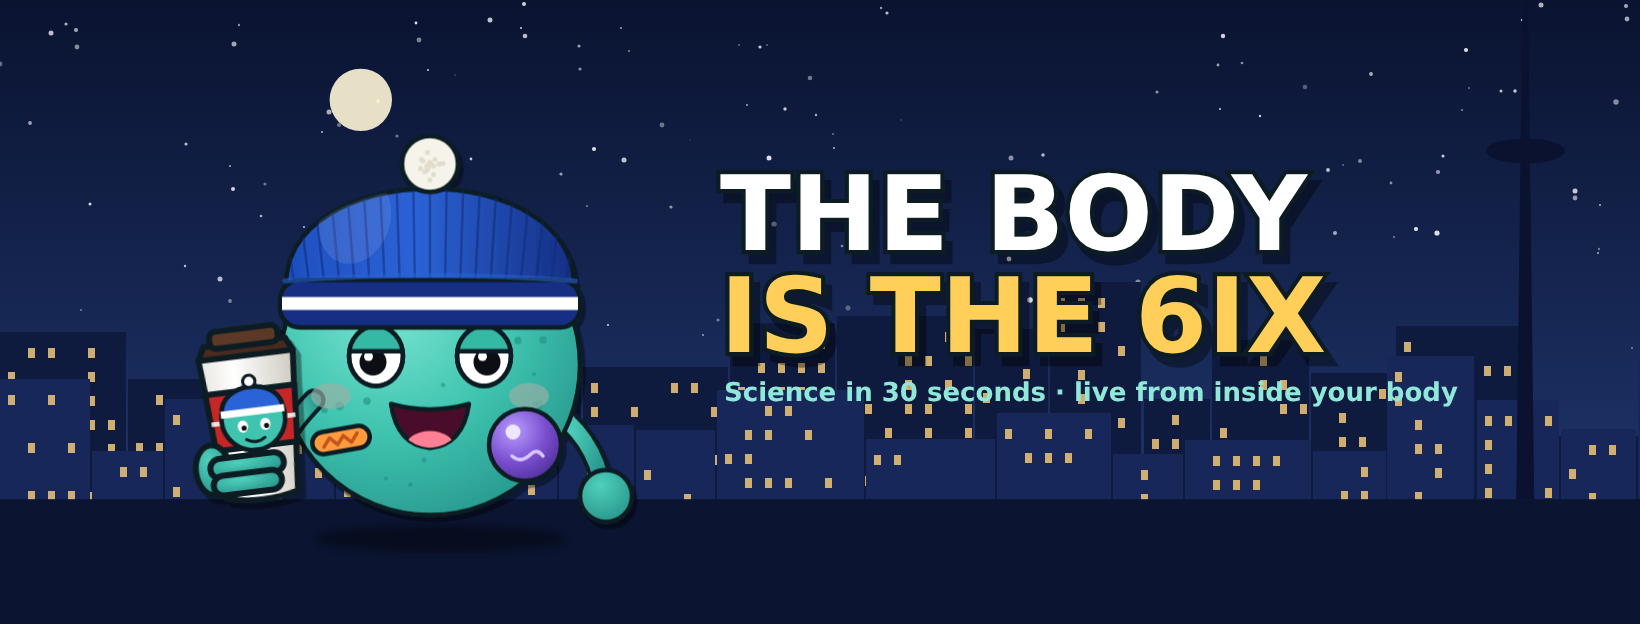
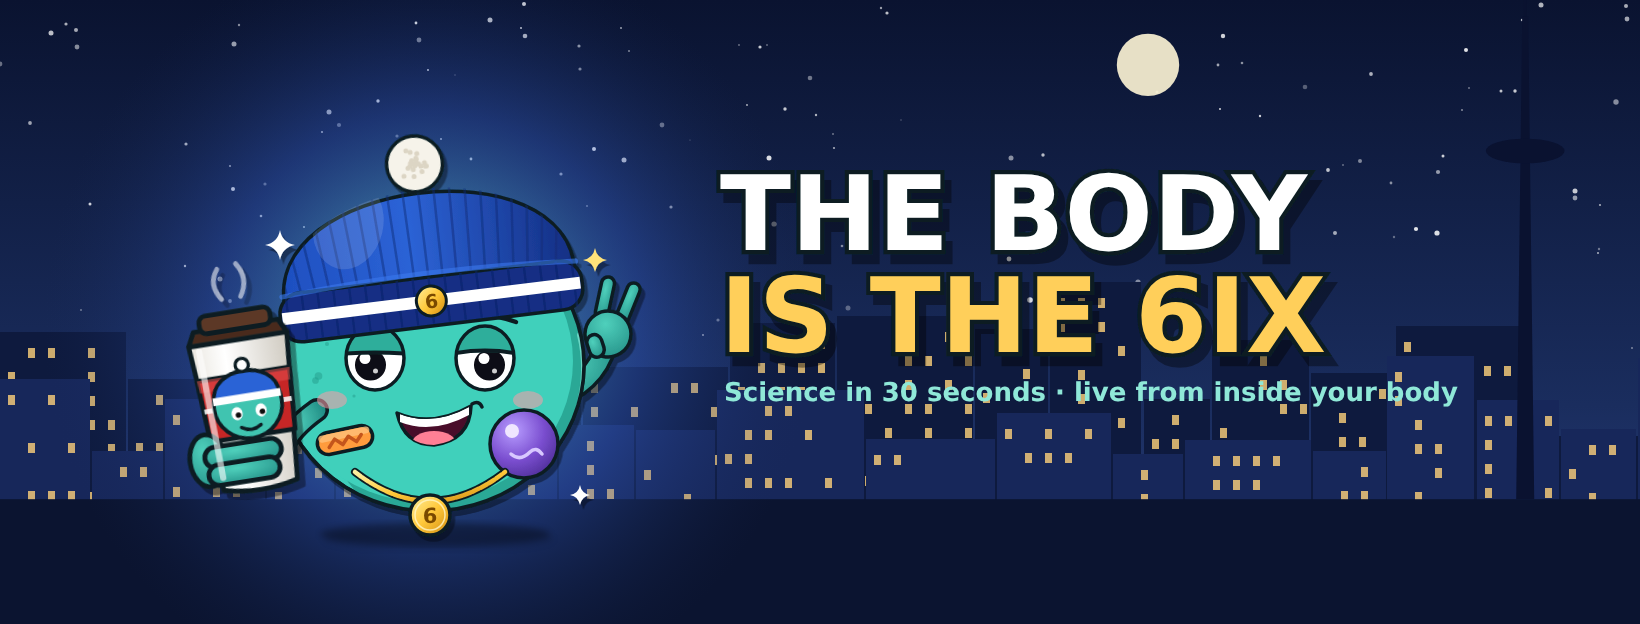
Rebrand v2.1: cooler Cyto (cel shading, smirk, gold 6 chain, peace sign, tilted toque)
Claude-Session: https://claude.ai/code/session_01YLZ2csSozvptdvtP7YVaK8

Changed region(s): [[0.0933, 0.0609, 0.4354, 0.9744], [0.6841, 0.0304, 0.7463, 0.1522]]

diff --git a/studio/branding/rebrand-v2/cyto2d.js b/studio/branding/rebrand-v2/cyto2d.js
@@ -8,66 +8,104 @@ const defs=`
  <radialGradient id="nuc" cx=".35" cy=".3" r=".8"><stop offset="0" stop-color="#b79cff"/><stop offset=".55" stop-color="#7b4fd0"/><stop offset="1" stop-color="#4b2b94"/></radialGradient>
  <linearGradient id="sky" x1="0" y1="0" x2="0" y2="1"><stop offset="0" stop-color="#0a1330"/><stop offset=".65" stop-color="#1a2d5e"/><stop offset="1" stop-color="#2b4180"/></linearGradient>
  <linearGradient id="cupw" x1="0" x2="1"><stop offset="0" stop-color="#e9e6df"/><stop offset=".35" stop-color="#ffffff"/><stop offset="1" stop-color="#cfcac0"/></linearGradient>
+ <radialGradient id="glow" cx=".5" cy=".5" r=".5"><stop offset="0" stop-color="#6ff0dc" stop-opacity=".75"/><stop offset=".55" stop-color="#3a6be0" stop-opacity=".32"/><stop offset="1" stop-color="#1a2d5e" stop-opacity="0"/></radialGradient>
+ <linearGradient id="gold" x1="0" y1="0" x2="1" y2="1"><stop offset="0" stop-color="#fff0a0"/><stop offset=".5" stop-color="#ffc83a"/><stop offset="1" stop-color="#d08a10"/></linearGradient>
+ <clipPath id="bodyclip2"><ellipse rx="308" ry="292"/></clipPath>
  <filter id="cut" x="-10%" y="-10%" width="130%" height="130%"><feDropShadow dx="7" dy="10" stdDeviation="0" flood-color="#000" flood-opacity=".38"/></filter>
  <filter id="soft"><feGaussianBlur stdDeviation="6"/></filter>
  <clipPath id="bodyclip"><circle r="300"/></clipPath>
  <clipPath id="hatclip"><path d="M-288 -150 C-300 -420 300 -420 288 -150Z"/></clipPath>
 </defs>`;
-const O='stroke="#0a1f24" stroke-width="9" stroke-linejoin="round" stroke-linecap="round"';
-function eye(x,flip){return `<g transform="translate(${x},-18)">
- <clipPath id="e${x<0?'L':'R'}"><ellipse rx="54" ry="60"/></clipPath>
- <ellipse rx="54" ry="60" fill="#fff" ${O}/>
- <circle cx="${flip*6}" cy="12" r="27" fill="#0b0b12"/><circle cx="${flip*6-9}" cy="1" r="9" fill="#fff"/>
- <g clip-path="url(#e${x<0?'L':'R'})"><rect x="-70" y="-70" width="140" height="62" fill="#34b8a4"/><rect x="-70" y="-14" width="140" height="9" fill="#0a1f24"/></g>
- <ellipse rx="54" ry="60" fill="none" ${O}/>
- <path d="M${-56} -80 Q0 ${-104+flip*-6} 56 -76" fill="none" ${O}/>
+const O='stroke="#0a1f24" stroke-width="7" stroke-linejoin="round" stroke-linecap="round"';
+
+function sparkle(x,y,r,c='#fff'){return `<path d="M${x} ${y-r} Q${x+r*.15} ${y-r*.15} ${x+r} ${y} Q${x+r*.15} ${y+r*.15} ${x} ${y+r} Q${x-r*.15} ${y+r*.15} ${x-r} ${y} Q${x-r*.15} ${y-r*.15} ${x} ${y-r}Z" fill="${c}"/>`}
+function eye(x,side){ // side -1 left, 1 right
+ const id='e'+(side<0?'L':'R');
+ return `<g transform="translate(${x},-14)">
+ <clipPath id="${id}"><ellipse rx="58" ry="64"/></clipPath>
+ <ellipse rx="58" ry="64" fill="#fff"/>
+ <g clip-path="url(#${id})">
+  <circle cx="${side*9}" cy="14" r="31" fill="#0b0b12"/><circle cx="${side*9-11}" cy="1" r="11" fill="#fff"/><circle cx="${side*9+10}" cy="26" r="5" fill="#fff" opacity=".8"/>
+  <path d="M-70 -80 L70 -80 L70 -6 Q0 -${14+side*4} -70 -6Z" fill="#2fae9b"/>
+  <path d="M-70 -8 Q0 ${-18-side*4} 70 -8" fill="none" stroke="#0a1f24" stroke-width="8"/>
+ </g>
+ <ellipse rx="58" ry="64" fill="none" ${O}/>
+ <path d="M-60 -78 Q0 ${side<0?-112:-96} 62 ${side<0?-84:-72}" fill="none" stroke="#0a1f24" stroke-width="9" stroke-linecap="round"/>
 </g>`}
-function cup(){return `<g transform="translate(-352,118) rotate(-7) scale(1.32)" filter="url(#cut)">
+function cup(){return `<g transform="translate(-362,92) rotate(-9) scale(1.38)" filter="url(#cut)">
  <path d="M-72 -105 L72 -105 L54 108 Q0 122 -54 108Z" fill="url(#cupw)" ${O}/>
- <path d="M-68 -52 L68 -52 L62 34 L-62 34Z" fill="#c62828" ${O}/>
- <rect x="-64" y="-10" width="128" height="7" fill="#fff" opacity=".85"/>
+ <path d="M-68 -54 L68 -54 L62 36 L-62 36Z" fill="#c62828" ${O}/>
+ <path d="M-68 -54 L68 -54 L66 -36 L-66 -36Z" fill="#e24a4a" opacity=".55"/>
+ <rect x="-64" y="-12" width="128" height="7" fill="#fff" opacity=".85"/>
  <path d="M-62 -125 L62 -125 L72 -105 L-72 -105Z" fill="#4a2c1f" ${O}/>
  <rect x="-52" y="-146" width="104" height="26" rx="10" fill="#5c3827" ${O}/>
- <g transform="translate(0,-9) scale(.78)"><circle r="62" fill="#3fc4b0" ${O}/>
+ <path d="M-14 -166 Q-30 -190 -14 -210 M14 -166 Q30 -190 14 -214" fill="none" stroke="#fff" stroke-width="7" stroke-linecap="round" opacity=".55"/>
+ <g transform="translate(0,-10) scale(.8)"><circle r="62" fill="#3fc4b0" ${O}/>
   <path d="M-60 -12 C-60 -78 60 -78 60 -12Z" fill="#2c63d6" ${O}/><rect x="-62" y="-20" width="124" height="14" fill="#fff"/><circle cy="-72" r="12" fill="#fff" stroke="#0a1f24" stroke-width="6"/>
   <ellipse cx="-22" cy="14" rx="10" ry="12" fill="#fff"/><ellipse cx="22" cy="14" rx="10" ry="12" fill="#fff"/><circle cx="-20" cy="17" r="5" fill="#111"/><circle cx="24" cy="17" r="5" fill="#111"/>
   <path d="M-18 40 Q0 52 18 40" fill="none" stroke="#0a1f24" stroke-width="6" stroke-linecap="round"/></g>
- <g ${O} fill="url(#skinArm)"><ellipse cx="-70" cy="62" rx="26" ry="38"/><rect x="-74" y="46" width="112" height="30" rx="15"/><rect x="-72" y="72" width="104" height="30" rx="15"/></g>
+ <g ${O} fill="url(#skinArm)"><ellipse cx="-70" cy="62" rx="26" ry="38"/><rect x="-74" y="44" width="112" height="30" rx="15"/><rect x="-72" y="70" width="104" height="30" rx="15"/></g>
+ <path d="M-58 -96 L-52 90" stroke="#fff" stroke-width="9" stroke-linecap="round" opacity=".6"/>
 </g>`}
 function cyto(){
- let spots=''; for(let i=0;i<34;i++){const a=rnd()*6.28,r=Math.sqrt(rnd())*270;const x=Math.cos(a)*r,y=Math.sin(a)*r*0.95+20;
-  if(Math.abs(x)<150&&y>-90&&y<20) continue; if(Math.abs(x)<110&&y>40&&y<170) continue; if(y<-80) continue; if(x>110&&y>90&&x<260) continue;if(x<-110&&y>95&&x>-260) continue;
-  spots+=`<circle cx="${x.toFixed(0)}" cy="${y.toFixed(0)}" r="${(3+rnd()*6).toFixed(1)}" fill="#1f8f86" opacity=".6"/>`}
- let ribs=''; for(let i=-9;i<=9;i++) ribs+=`<path d="M${i*30} -150 L${i*34} -400" stroke="#102a74" stroke-width="5" opacity=".5"/>`;
- let pom=''; for(let i=0;i<22;i++){const a=rnd()*6.28,r=rnd()*34;pom+=`<circle cx="${(Math.cos(a)*r).toFixed(0)}" cy="${(Math.sin(a)*r).toFixed(0)}" r="5" fill="#e2dccd"/>`}
+ let spots=''; for(let i=0;i<22;i++){const a=rnd()*6.28,r=Math.sqrt(rnd())*260;const x=Math.cos(a)*r,y=Math.sin(a)*r*0.95+20;
+  if(Math.abs(x)<190&&y>-100&&y<30) continue; if(Math.abs(x)<130&&y>40&&y<170) continue; if(y<-60) continue; if(x>100&&y>80) continue;if(x<-110&&y>70&&x>-270) continue; if(y>150) continue;
+  spots+=`<circle cx="${x.toFixed(0)}" cy="${y.toFixed(0)}" r="${(3+rnd()*5).toFixed(1)}" fill="#25a090" opacity=".55"/>`}
+ let ribs=''; for(let i=-10;i<=10;i++) ribs+=`<path d="M${i*28} -140 L${i*32} -400" stroke="#102a74" stroke-width="5" opacity=".45"/>`;
+ let cuffr=''; for(let i=-9;i<=9;i++) cuffr+=`<path d="M${i*32} -176 L${i*32} -82" stroke="#0e2468" stroke-width="5" opacity=".55"/>`;
+ let pom=''; for(let i=0;i<24;i++){const a=rnd()*6.28,r=rnd()*34;pom+=`<circle cx="${(Math.cos(a)*r).toFixed(0)}" cy="${(Math.sin(a)*r).toFixed(0)}" r="5" fill="#dcd5c4"/>`}
  return `<g filter="url(#cut)">
- <ellipse cx="20" cy="345" rx="250" ry="26" fill="#000" opacity=".28" filter="url(#soft)"/>
- <g><path d="M232 80 Q330 140 346 250" fill="none" stroke="#0a1f24" stroke-width="46" stroke-linecap="round"/><path d="M232 80 Q330 140 346 250" fill="none" stroke="url(#skinArm)" stroke-width="30" stroke-linecap="round"/>
- <circle cx="352" cy="262" r="52" fill="url(#skinArm)" ${O}/></g>
- <circle r="300" fill="url(#skin)" ${O}/>
- <g clip-path="url(#bodyclip)">${spots}
-  <ellipse cx="-120" cy="-150" rx="120" ry="60" fill="#fff" opacity=".13" transform="rotate(-24 -120 -150)"/></g>
- <path d="M-232 70 Q-290 130 -300 170" fill="none" stroke="#0a1f24" stroke-width="46" stroke-linecap="round"/><path d="M-232 70 Q-290 130 -300 170" fill="none" stroke="url(#skinArm)" stroke-width="30" stroke-linecap="round"/>
- ${eye(-108,-1)}${eye(108,1)}
- <ellipse cx="-198" cy="62" rx="40" ry="26" fill="#9db0a6" opacity=".65"/><ellipse cx="198" cy="62" rx="40" ry="26" fill="#9db0a6" opacity=".65"/>
- <clipPath id="mo"><path d="M-78 78 Q0 100 78 78 Q66 160 0 166 Q-66 160 -78 78Z"/></clipPath>
- <path d="M-78 78 Q0 100 78 78 Q66 160 0 166 Q-66 160 -78 78Z" fill="#4a0f2b" ${O}/>
- <g clip-path="url(#mo)"><ellipse cx="0" cy="162" rx="48" ry="30" fill="#ff7f95"/></g>
- <g transform="translate(-178,150) rotate(-10)"><rect x="-58" y="-22" width="116" height="44" rx="22" fill="#ff9b3d" ${O}/><path d="M-36 8 L-22 -8 L-8 8 L6 -8 L20 8 L34 -8" fill="none" stroke="#c4541a" stroke-width="7" stroke-linecap="round" stroke-linejoin="round"/></g>
- <g transform="translate(190,160)"><circle r="72" fill="url(#nuc)" ${O}/><circle cx="-24" cy="-26" r="15" fill="#efe6ff"/><path d="M-26 22 Q-8 38 12 18 Q24 6 36 22" fill="none" stroke="#d8c8ff" stroke-width="7" stroke-linecap="round"/></g>
- <g>
-  <path d="M-288 -150 C-300 -420 300 -420 288 -150Z" fill="url(#hat)" ${O}/>
-  <g clip-path="url(#hatclip)">${ribs}<ellipse cx="-150" cy="-290" rx="70" ry="90" fill="#fff" opacity=".1" transform="rotate(20 -150 -290)"/></g>
-  <rect x="-300" y="-170" width="600" height="95" rx="40" fill="#142f84" ${O}/>
-  <rect x="-296" y="-136" width="592" height="26" fill="#fff"/>
-  <path d="M-290 -168 Q0 -190 290 -168" fill="none" stroke="#2c63d6" stroke-width="10" opacity=".55" stroke-linecap="round"/>
-  <g transform="translate(0,-402)"><circle r="56" fill="#f6f3ea" ${O}/>${pom}</g>
+ <ellipse cx="10" cy="338" rx="230" ry="24" fill="#000" opacity=".3" filter="url(#soft)"/>
+ <!-- raised peace-sign arm (viewer right) -->
+ <path d="M236 70 Q330 40 352 -40" fill="none" stroke="#0a1f24" stroke-width="48" stroke-linecap="round"/><path d="M236 70 Q330 40 352 -40" fill="none" stroke="url(#skinArm)" stroke-width="34" stroke-linecap="round"/>
+ <g transform="translate(356,-62) rotate(12)"><rect x="-34" y="-112" width="26" height="86" rx="13" fill="url(#skinArm)" ${O}/><rect x="6" y="-112" width="26" height="86" rx="13" fill="url(#skinArm)" ${O} transform="rotate(10 19 -26)"/><circle r="46" fill="url(#skinArm)" ${O}/><rect x="-46" y="-8" width="30" height="46" rx="15" fill="url(#skinArm)" ${O} transform="rotate(-30)"/></g>
+ <!-- body -->
+ <ellipse rx="308" ry="292" fill="#3fd0bb" ${O}/>
+ <g clip-path="url(#bodyclip2)">
+  <ellipse cx="60" cy="70" rx="320" ry="300" fill="#2aa896" transform="translate(54 60)" opacity="0"/>
+  <path d="M-310 0 A310 295 0 0 0 310 0 Q300 150 150 260 Q-40 330 -200 230 Q-300 150 -310 0Z" fill="#27a593" opacity=".0"/>
+  <ellipse cx="86" cy="76" rx="300" ry="285" fill="#2aa896"/>
+  <ellipse cx="-10" cy="-8" rx="296" ry="282" fill="#3fd0bb"/>
+  <path d="M-250 -150 Q-170 -250 -40 -250" fill="none" stroke="#fff" stroke-width="26" stroke-linecap="round" opacity=".38"/>
+  <circle cx="-218" cy="-95" r="13" fill="#fff" opacity=".4"/>
+  <path d="M300 -60 Q330 60 250 200" fill="none" stroke="#9dfbe9" stroke-width="12" stroke-linecap="round" opacity=".55"/>
+  ${spots}
  </g>
+ <ellipse rx="308" ry="292" fill="none" ${O}/>
+ <!-- left arm (to cup) -->
+ <path d="M-226 90 Q-282 130 -296 170" fill="none" stroke="#0a1f24" stroke-width="48" stroke-linecap="round"/><path d="M-226 90 Q-282 130 -296 170" fill="none" stroke="url(#skinArm)" stroke-width="34" stroke-linecap="round"/>
+ ${eye(-110,-1)}${eye(110,1)}
+ <ellipse cx="-196" cy="70" rx="30" ry="18" fill="#ff9aa8" opacity=".55"/><ellipse cx="196" cy="70" rx="30" ry="18" fill="#ff9aa8" opacity=".55"/>
+ <!-- smirk -->
+ <clipPath id="mo"><path d="M-66 96 Q4 126 82 82 Q80 150 8 160 Q-52 160 -66 96Z"/></clipPath>
+ <path d="M-66 96 Q4 126 82 82 Q80 150 8 160 Q-52 160 -66 96Z" fill="#4a0f2b" ${O}/>
+ <g clip-path="url(#mo)"><ellipse cx="8" cy="160" rx="46" ry="28" fill="#ff7f95"/><path d="M-60 98 Q4 124 78 84 L78 100 Q4 140 -60 114Z" fill="#fff"/></g>
+ <path d="M84 78 Q98 70 104 84" fill="none" stroke="#0a1f24" stroke-width="7" stroke-linecap="round"/>
+ <!-- bandage -->
+ <g transform="translate(-170,150) rotate(-12)"><rect x="-56" y="-22" width="112" height="44" rx="22" fill="#ff9b3d" ${O}/><rect x="-52" y="-18" width="104" height="14" rx="7" fill="#ffc07a" opacity=".8"/><path d="M-34 8 L-20 -6 L-6 8 L8 -6 L22 8 L34 -4" fill="none" stroke="#c4541a" stroke-width="7" stroke-linecap="round" stroke-linejoin="round"/></g>
+ <!-- nucleus -->
+ <g transform="translate(188,158)"><circle r="68" fill="url(#nuc)" ${O}/><circle cx="-24" cy="-26" r="14" fill="#efe6ff"/><path d="M-26 20 Q-8 36 12 16 Q24 4 36 20" fill="none" stroke="#d8c8ff" stroke-width="7" stroke-linecap="round"/></g>
+ <!-- gold chain + 6 pendant -->
+ <path d="M-150 214 Q0 330 150 214" fill="none" stroke="#0a1f24" stroke-width="16" stroke-linecap="round"/>
+ <path d="M-150 214 Q0 330 150 214" fill="none" stroke="url(#gold)" stroke-width="9" stroke-linecap="round" stroke-dasharray="14 4"/>
+ <g transform="translate(0,300)"><circle r="40" fill="url(#gold)" ${O}/><circle r="30" fill="none" stroke="#fff6c8" stroke-width="3" opacity=".8"/><text y="15" text-anchor="middle" font-family="Arial Black, Impact, DejaVu Sans, sans-serif" font-weight="900" font-size="42" fill="#7a4a00">6</text></g>
+ <!-- toque (tilted) -->
+ <g transform="rotate(-7 0 -150)">
+  <path d="M-292 -150 C-312 -410 312 -410 292 -150Z" fill="url(#hat)" ${O}/>
+  <g clip-path="url(#hatclip)">${ribs}<ellipse cx="-150" cy="-300" rx="70" ry="90" fill="#fff" opacity=".13" transform="rotate(20 -150 -290)"/></g>
+  <rect x="-304" y="-176" width="608" height="98" rx="42" fill="#142f84" ${O}/>
+  ${cuffr}
+  <rect x="-300" y="-140" width="600" height="24" fill="#fff"/>
+  <path d="M-296 -172 Q0 -196 296 -172" fill="none" stroke="#3a78ec" stroke-width="10" opacity=".6" stroke-linecap="round"/>
+  <g transform="translate(0,-128)"><circle r="30" fill="url(#gold)" stroke="#0a1f24" stroke-width="6"/><text y="14" text-anchor="middle" font-family="Arial Black, Impact, DejaVu Sans, sans-serif" font-weight="900" font-size="38" fill="#7a4a00">6</text></g>
+  <g transform="translate(0,-404)"><circle r="56" fill="#f6f3ea" ${O}/>${pom}</g>
+ </g>
+ ${sparkle(-300,-240,30)}${sparkle(330,-210,24,'#ffe27a')}${sparkle(300,260,20)}${sparkle(-380,-60,18,'#ffe27a')}
  </g>${cup()}`}
 function skyline(w,h,base,seed){let s=seed;const r=()=>(s=(s*16807)%2147483647)/2147483647;let o='';
  o+=`<rect width="${w}" height="${h}" fill="url(#sky)"/>`;
  for(let i=0;i<130;i++) o+=`<circle cx="${(r()*w).toFixed(0)}" cy="${(r()*base*0.7).toFixed(0)}" r="${(r()*2.2+.6).toFixed(1)}" fill="#fff" opacity="${(.3+r()*.6).toFixed(2)}"/>`;
- o+=`<circle cx="${w*0.22}" cy="${base*0.2}" r="${Math.min(w,h)*0.05}" fill="#fff6d6" opacity=".9"/>`;
+ if(w>1200) o+=`<circle cx="${w*0.7}" cy="${base*0.13}" r="${Math.min(w,h)*0.05}" fill="#fff6d6" opacity=".9"/>`;
  for(let layer=0;layer<2;layer++){let x=-20;while(x<w){const bw=w*(0.04+r()*0.05),bh=h*(0.1+r()*0.25)*(layer?.7:1);
   o+=`<rect x="${x.toFixed(0)}" y="${(base-bh).toFixed(0)}" width="${bw.toFixed(0)}" height="${(h-base+bh).toFixed(0)}" fill="${layer?'#17275a':'#0e1a3e'}"/>`;
   for(let wy=base-bh+16;wy<base;wy+=24)for(let wx=x+8;wx<x+bw-8;wx+=20)if(r()>.6)o+=`<rect x="${wx.toFixed(0)}" y="${wy.toFixed(0)}" width="7" height="10" fill="#ffd27a" opacity=".8"/>`;
@@ -79,13 +117,13 @@ const pfp=`<svg xmlns="http://www.w3.org/2000/svg" width="1000" height="1000" vi
  <clipPath id="circ"><circle cx="500" cy="500" r="486"/></clipPath>
  <g clip-path="url(#circ)">${skyline(1000,1000,780,3)}${tower(840,780,540)}
  <rect y="760" width="1000" height="240" fill="#0b1430"/>
- <g transform="translate(535,520) scale(.78)">${cyto()}</g></g>
+ <circle cx="520" cy="500" r="470" fill="url(#glow)"/><g transform="translate(512,505) scale(.86)">${cyto()}</g></g>
  <circle cx="500" cy="500" r="486" fill="none" stroke="#ffcf5a" stroke-width="28"/></svg>`;
 fs.writeFileSync('pfp.svg',pfp);
 // COVER 1640x624 (FB) — character left-center, text right, safe middle
 const cover=(w,h,sc,cx,cy,tx,fs1,fs2)=>`<svg xmlns="http://www.w3.org/2000/svg" width="${w}" height="${h}" viewBox="0 0 ${w} ${h}">${defs}
  ${skyline(w,h,h*0.8,9)}${tower(w*0.93,h*0.8,h*0.9)}<rect y="${h*0.8}" width="${w}" height="${h*0.2}" fill="#0b1430"/>
- <g transform="translate(${cx},${cy}) scale(${sc})">${cyto()}</g>
+ <circle cx="${cx}" cy="${cy-40}" r="${h*0.62}" fill="url(#glow)"/><g transform="translate(${cx},${cy}) scale(${sc})">${cyto()}</g>
  <g font-family="Arial Black, Impact, DejaVu Sans, sans-serif" font-weight="900">
   <text x="${tx}" y="${h*0.4}" font-size="${fs1}" fill="#fff" stroke="#0a1f24" stroke-width="${fs1*0.08}" paint-order="stroke" filter="url(#cut)">THE BODY</text>
   <text x="${tx}" y="${h*0.4+fs1*0.98}" font-size="${fs1}" fill="#ffcf5a" stroke="#0a1f24" stroke-width="${fs1*0.08}" paint-order="stroke" filter="url(#cut)">IS THE 6IX</text>
